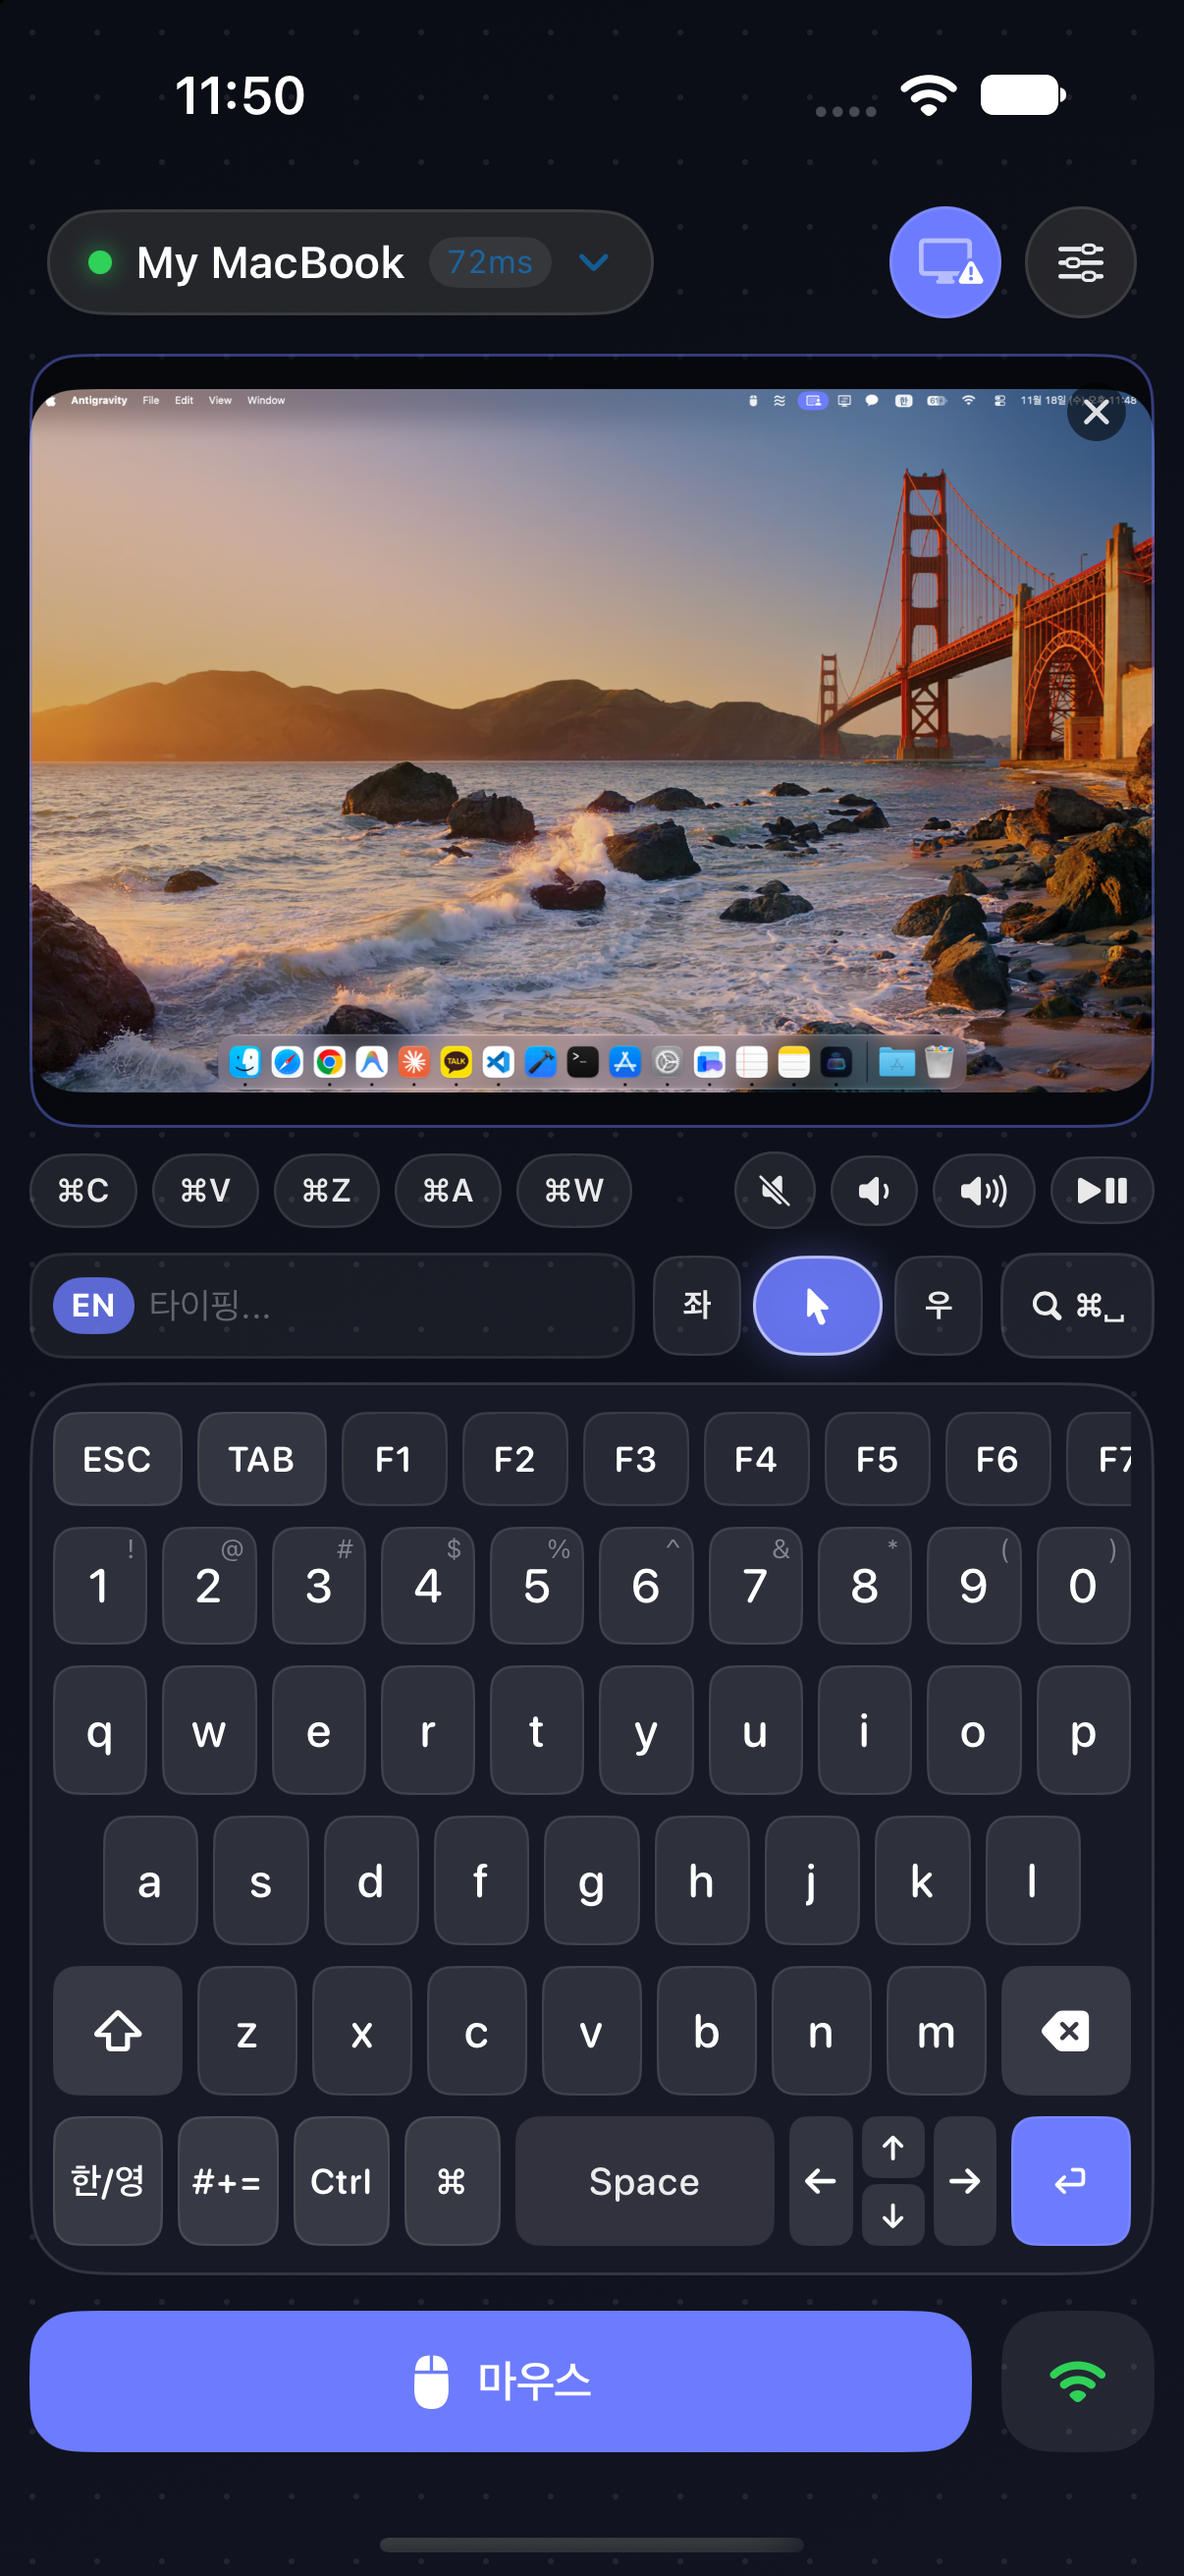
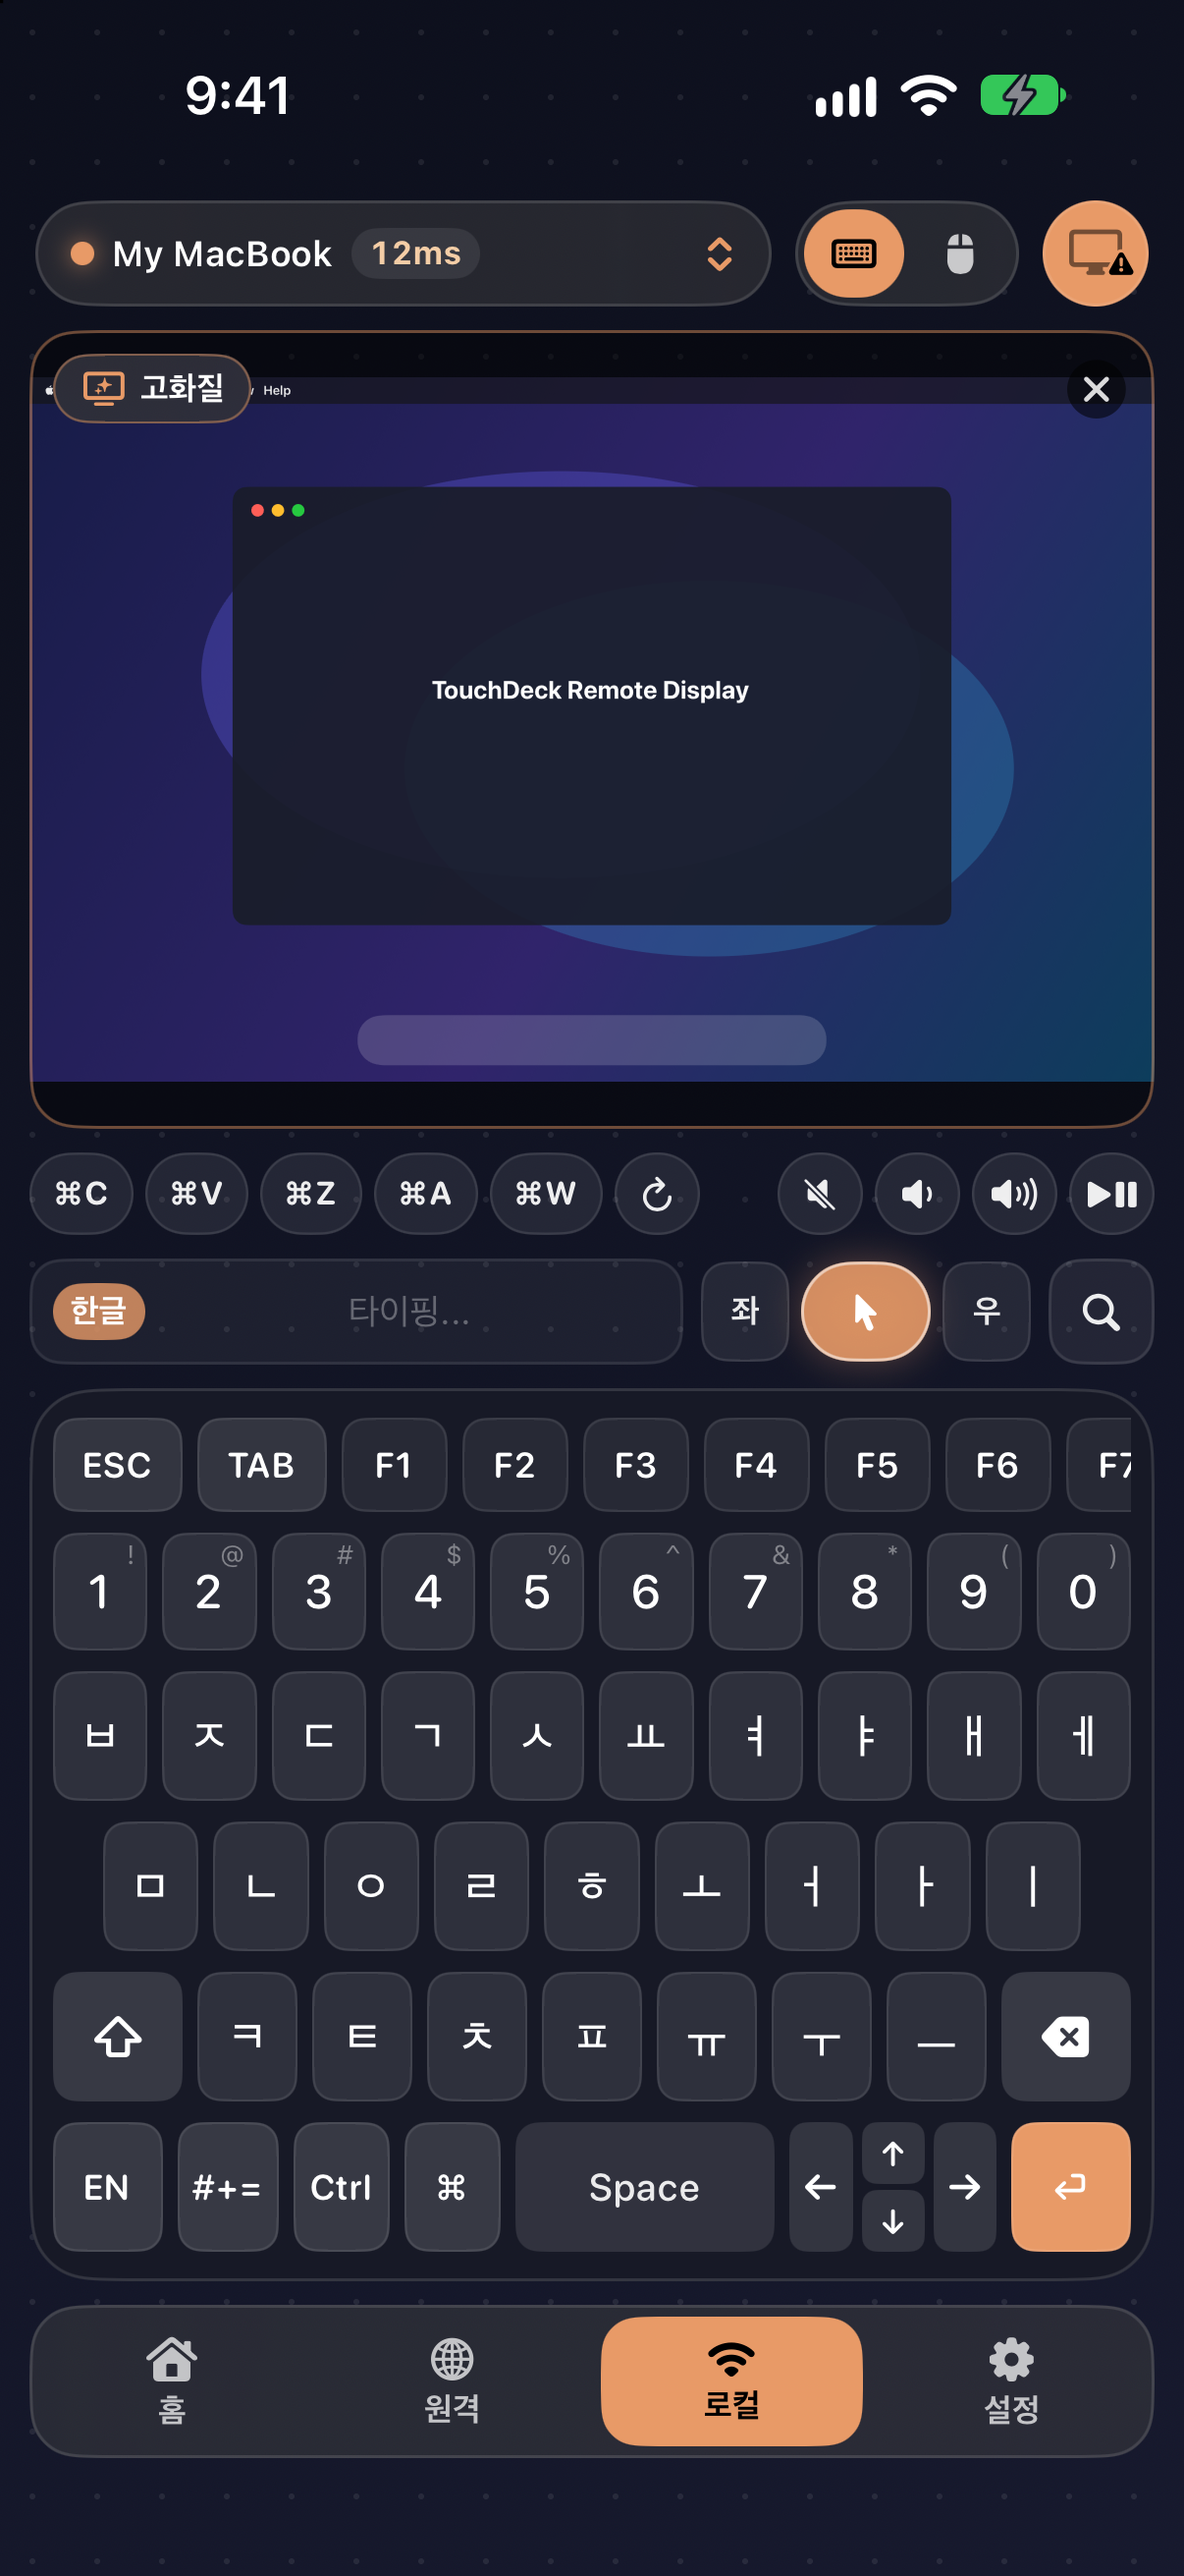
Update README with 4-tab UI screenshots and sanitized desktop preview

diff --git a/README.md b/README.md
@@ -6,9 +6,13 @@
 iPhone을 **무선 마우스 · 키보드 · 원격 미니 모니터**로 사용하는 경량 로컬 + 원격 제어 앱입니다.  
 같은 Wi-Fi에서는 자동으로 초고속 연결되며, Wi-Fi가 없을 때는 **Bluetooth LE**, 외부(LTE/5G/외부 Wi-Fi)에서는 별도 VPN이나 공유기 포트포워딩 없이 **6자리 원격 코드(STUN + UDP P2P 홀펀칭 / 내장 클라우드 릴레이)**로 즉시 연결됩니다.
 
-| 원격 화면 연결 (키보드 모드) | 트랙패드 (마우스 모드) | 데스크톱 에이전트 (Windows / macOS) |
-| :---: | :---: | :---: |
-| <img src="docs/iphone_screen_connected.png" width="220" /> | <img src="docs/iphone_trackpad.png" width="220" /> | <img src="docs/mac_app.png" width="330" /> |
+| 홈 허브 (`홈`) | 원격 접속 (`원격`) | 화면 공유 · 키보드 (`로컬`) | 트랙패드 (`마우스`) |
+| :---: | :---: | :---: | :---: |
+| <img src="docs/iphone_home.png" width="190" /> | <img src="docs/iphone_remote.png" width="190" /> | <img src="docs/iphone_screen_connected.png" width="190" /> | <img src="docs/iphone_trackpad.png" width="190" /> |
+
+| 설정 & `NooP Pro` (`설정`) | 데스크톱 에이전트 (`NooPMac` / `NooP for pc`) |
+| :---: | :---: |
+| <img src="docs/iphone_settings.png" width="210" /> | <img src="docs/mac_app.png" width="440" /> |
 
 ### 가로 전체화면 & 양손 분할 키보드
 <p align="center">
@@ -26,9 +30,11 @@ iPhone을 **무선 마우스 · 키보드 · 원격 미니 모니터**로 사용
 
 ## 주요 기능
 
-- **로컬 제어 & 원격 접속 2탭 통합**
-  - **로컬 제어 탭**: 같은 Wi-Fi(Bonjour 자동 검색) 또는 Bluetooth LE로 즉시 연결
-  - **원격 접속 탭**: 별도 프로그램이나 공유기 설정 없이 `NooPMac` / `NooP for pc`에 표시된 **6자리 원격 연결 코드**만 입력하면 STUN + UDP 홀펀칭 P2P(및 내장 릴레이)로 외부 LTE/5G에서도 즉시 연결
+- **4-카테고리 통합 워크스페이스 (`홈 | 원격 | 로컬 | 설정`)**
+  - **홈 탭**: 내 기기 빠른 전환 · 6자리 원격 코드 연결 · 확장 플랫폼 모듈 허브
+  - **원격 탭 (`NooP Pro`)**: 별도 프로그램이나 공유기 설정 없이 `NooPMac` / `NooP for pc`에 표시된 **6자리 원격 연결 코드**를 한 번 등록하면 STUN + UDP 홀펀칭 P2P(및 내장 릴레이)로 외부 LTE/5G에서도 자동 연결
+  - **로컬 탭**: 같은 Wi-Fi(Bonjour · UDP 자동 검색) 또는 Bluetooth LE로 지연 없이 즉시 연결
+  - **설정 탭**: 커서 감도, 탭하여 클릭, 자연스러운 스크롤, 햅틱, 스트리밍 화질, 등록된 기기 관리 및 `NooP Pro` 관리
 - **키보드 모드 우선 & 즉시 마우스 제어**
   - 영문 QWERTY · 한글 두벌식(쌍자음/조합 지원) · 기호 · `F1~F12` · `⌘C/⌘V/⌘Z/⌘A/⌘W` · `⌘Space` · 미디어 컨트롤
   - 중앙의 **커서 핸들**을 드래그하면 화면 전환 없이 바로 마우스를 움직이고, 양옆 `좌` / `우` 버튼으로 즉시 클릭 가능
